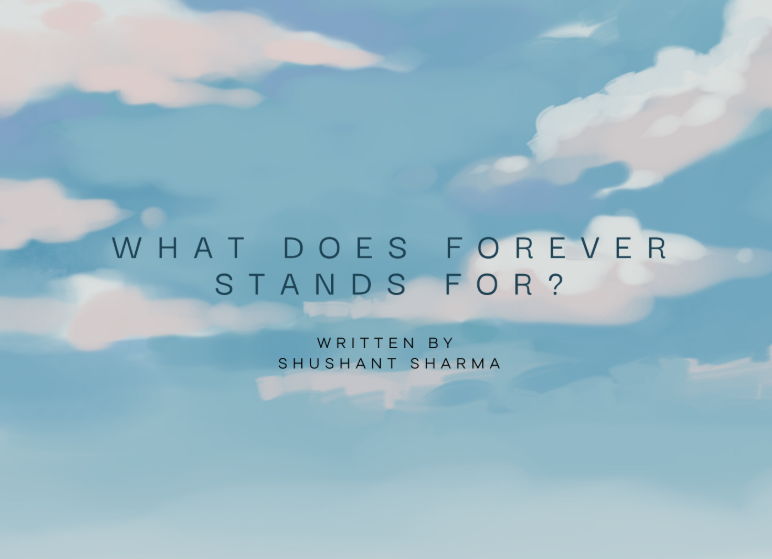
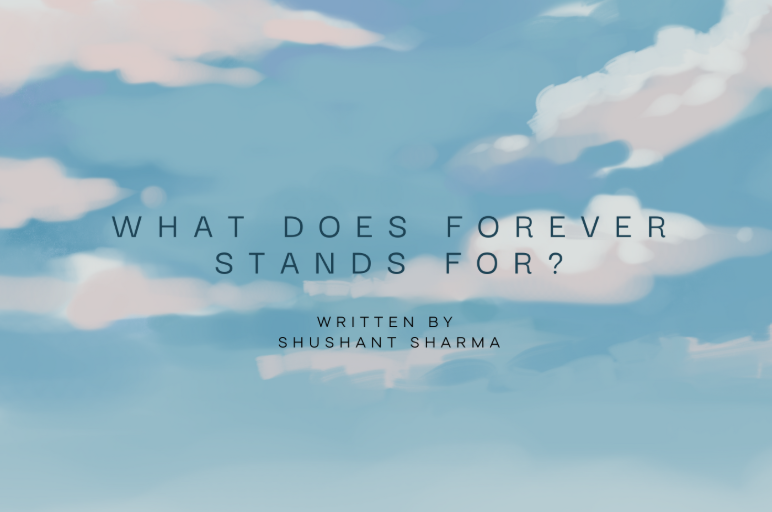
chnaged image

diff --git a/src/lib/data.ts b/src/lib/data.ts
@@ -38,7 +38,7 @@ export const works: Work[] = [
     type: 'Short Story',
     genre: 'Drama',
     description: 'When Vasu learns that his wifes cancer has relapsed and there is nothing more the doctors can do, he refuses to accept defeat. Holding onto hope, he fights against the inevitable, unwilling to let go. But as he sits by her hospital bed, Radha tells him a story—one that intertwines their past, their regrets, and the love they once took for granted.',
-    image: 'https://images.unsplash.com/photo-1493397212122-2b85dda8106b',
+    image: 'https://raw.githubusercontent.com/Rudr-krishna/Shushant-work/main/public/images/image3.png',
     readMoreLink: '#'
   },
   {
@@ -47,7 +47,7 @@ export const works: Work[] = [
     type: 'Short Story',
     genre: 'Sci-fi, Thriller',
     description: 'It is a Sci-fi Short story where Fani illegally summons his future selves for a quick task. He expects a shortcut, not blood on the floor and their sudden disappearance. This is an excerpt. The full story is available upon request.',
-    image: 'https://images.unsplash.com/photo-1485827404703-89b55fcc595e',
+    image: 'https://raw.githubusercontent.com/Rudr-krishna/Shushant-work/main/public/images/image4.png',
     readMoreLink: '#'
   },
   {
@@ -56,7 +56,7 @@ export const works: Work[] = [
     type: 'Feature Idea',
     genre: 'Revenge Tragedy',
     description: 'Two strangers, living miles apart, lead parallel lives. Both have small and happy families. However, their peaceful lives take a dark turn when similar eerie incidents begin to unfold around them and they began to seem more related than mre strangers.',
-    image: 'https://images.unsplash.com/photo-1486718448742-163732cd1544',
+    image: 'https://raw.githubusercontent.com/Rudr-krishna/Shushant-work/main/public/images/image5.png',
     readMoreLink: '#'
   }
 ];
